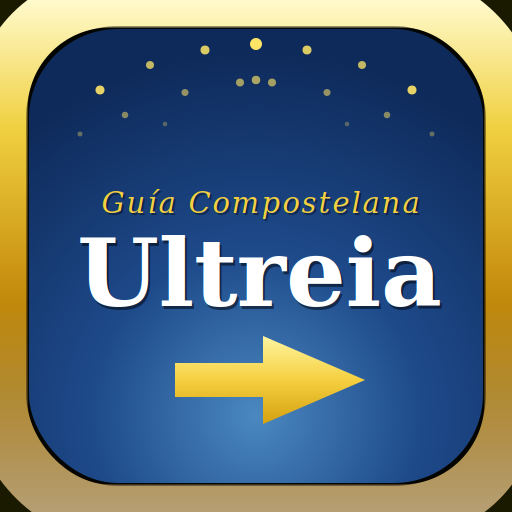
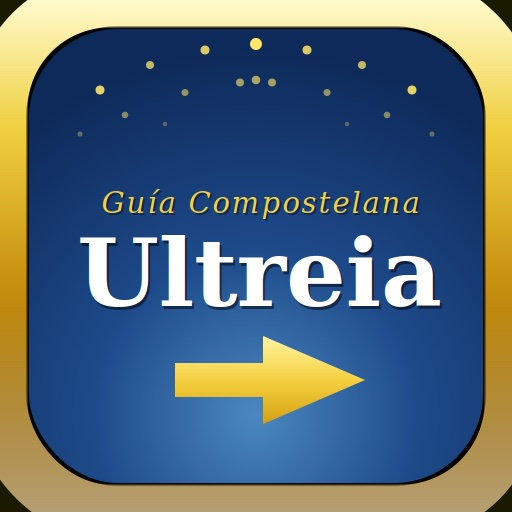
Add files via upload

diff --git a/index.html b/index.html
@@ -186,14 +186,13 @@
 
 
 
-  <!-- Panel ruta flotante esquina inferior derecha del mapa -->
-  <div id='map-ruta-panel' style='display:none;position:absolute;bottom:10px;left:50%;transform:translateX(-50%);z-index:400;background:rgba(0,0,0,0.72);backdrop-filter:blur(8px);border-radius:20px;padding:6px 14px;box-shadow:0 2px 16px rgba(0,0,0,0.35);align-items:center;gap:8px;font-family:DM Sans,sans-serif;font-size:12px;white-space:nowrap'>
-    <span style='font-weight:600;color:rgba(255,255,255,0.8)'>Ruta:</span>
-    <span id='ruta-bar-count' style='background:#1D9E75;color:#fff;padding:2px 8px;border-radius:10px;font-weight:700'>0 📍</span>
-    <span id='ruta-bar-dist' style='color:#7EE8C0;font-weight:600'>0 km</span>
-    <span id='ruta-bar-time' style='color:#7EE8C0;font-weight:600'>0 min</span>
-    <button id='ruta-bar-btn-go' onclick='iniciarRuta()' style='background:#1D9E75;color:#fff;border:none;padding:4px 10px;border-radius:12px;font-size:11px;font-weight:600;cursor:pointer;font-family:DM Sans,sans-serif;opacity:0.5'>▶ Ir</button>
-    <button id='ruta-bar-btn-clear' onclick='limpiarRuta()' style='background:none;border:1px solid #fca5a5;color:#dc2626;padding:4px 8px;border-radius:12px;font-size:11px;cursor:pointer;font-family:DM Sans,sans-serif;opacity:0.5'>🗑</button>
+  <!-- Panel ruta flotante lado derecho del mapa, bajo botón añadir punto -->
+  <div id='map-ruta-panel' style='display:none;position:absolute;top:98px;left:10px;z-index:400;background:rgba(0,0,0,0.72);backdrop-filter:blur(8px);border-radius:12px;padding:8px 6px;box-shadow:0 2px 16px rgba(0,0,0,0.35);flex-direction:column;align-items:center;gap:7px;font-family:DM Sans,sans-serif;font-size:11px;width:40px'>
+    <span id='ruta-bar-count' style='background:#1D9E75;color:#fff;padding:2px 4px;border-radius:8px;font-weight:700;font-size:10px;text-align:center;width:100%;display:block'>0📍</span>
+    <span id='ruta-bar-dist' style='color:#7EE8C0;font-weight:600;font-size:10px;text-align:center;line-height:1.2'>0km</span>
+    <span id='ruta-bar-time' style='color:#7EE8C0;font-weight:600;font-size:10px;text-align:center;line-height:1.2'>0m</span>
+    <button id='ruta-bar-btn-go' onclick='iniciarRuta()' title='Iniciar ruta' style='background:#1D9E75;color:#fff;border:none;padding:0;border-radius:8px;font-size:14px;font-weight:600;cursor:pointer;font-family:DM Sans,sans-serif;opacity:0.5;width:28px;height:28px;display:flex;align-items:center;justify-content:center;line-height:1'>▶</button>
+    <button id='ruta-bar-btn-clear' onclick='limpiarRuta()' title='Limpiar ruta' style='background:rgba(220,38,38,0.15);border:1px solid #fca5a5;color:#dc2626;padding:0;border-radius:8px;font-size:14px;cursor:pointer;font-family:DM Sans,sans-serif;opacity:0.5;width:28px;height:28px;display:flex;align-items:center;justify-content:center;line-height:1'>🗑</button>
   </div>
   <!-- IDs ocultos para compatibilidad con JS existente -->
   <span id='ruta-bar-empty' style='display:none'></span>
@@ -4399,6 +4398,6 @@ function abrirSobreNosotros() {
   document.getElementById('modal-sobre-nosotros').classList.add('visible');
 }
 </script>
-<div id='version-badge' style='position:fixed;bottom:4px;left:4px;font-size:10px;font-weight:600;color:#fff;background:rgba(29,158,117,0.85);padding:2px 6px;border-radius:6px;z-index:9999;pointer-events:none;font-family:monospace'>v193</div>
+<div id='version-badge' style='position:fixed;bottom:4px;left:4px;font-size:10px;font-weight:600;color:#fff;background:rgba(29,158,117,0.85);padding:2px 6px;border-radius:6px;z-index:9999;pointer-events:none;font-family:monospace'>v194</div>
 </body>
 </html>